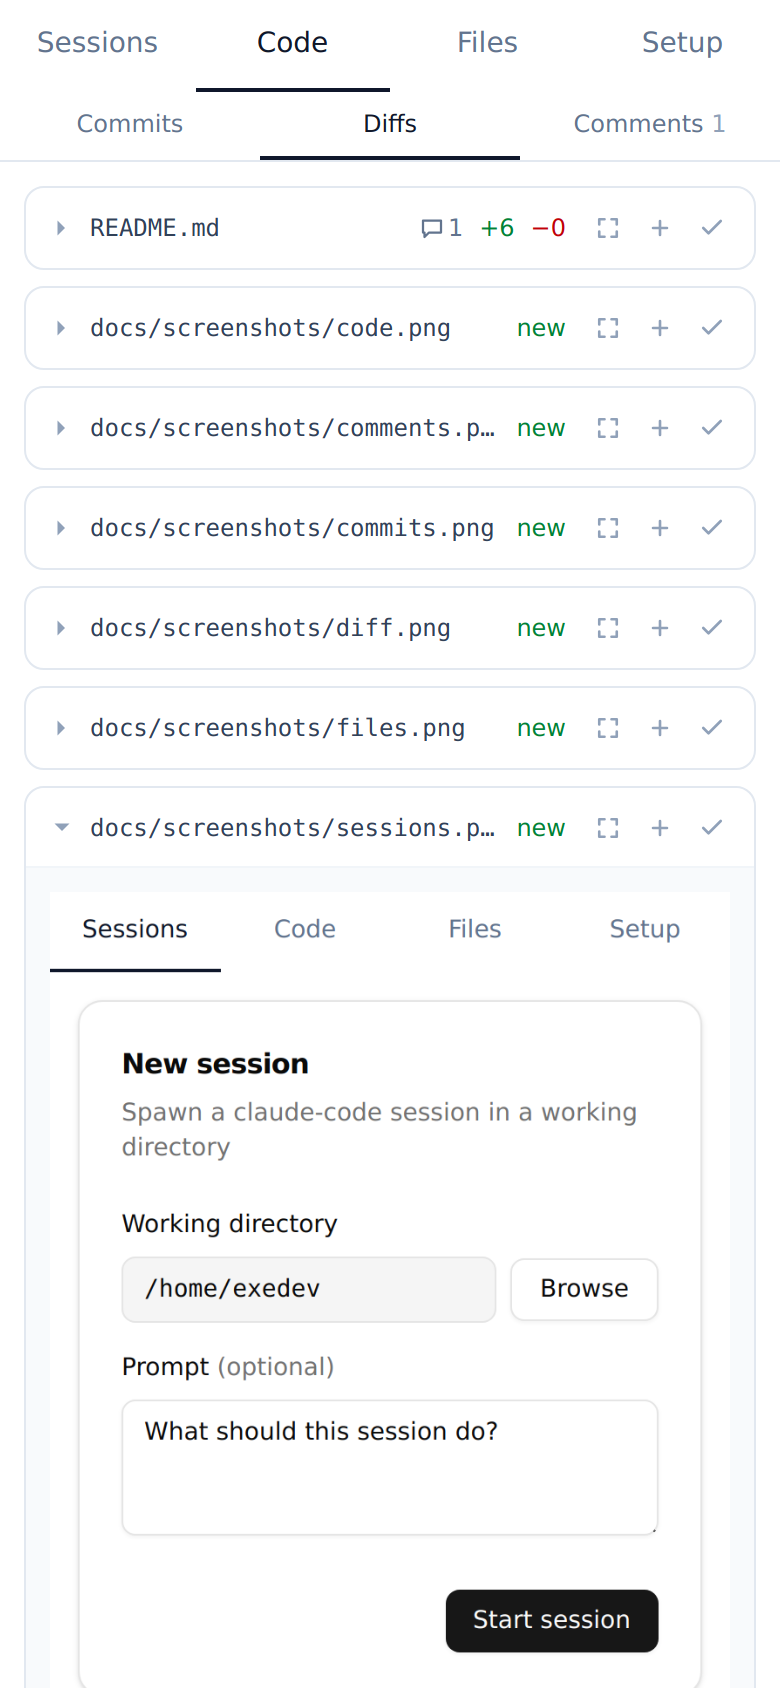
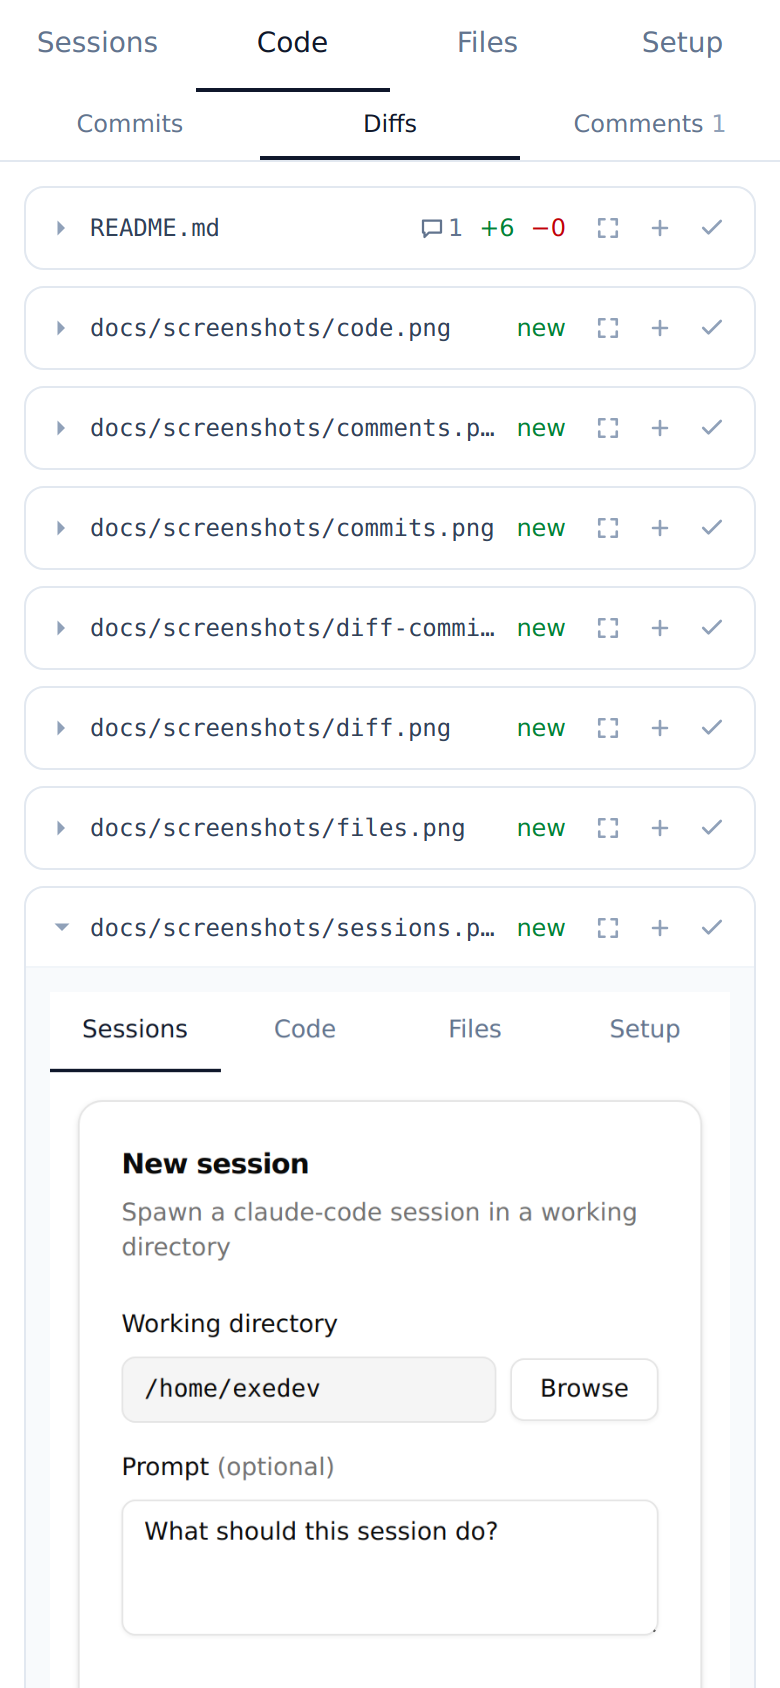
Re-order README screenshots and add the Claude Code mobile shot

diff --git a/README.md b/README.md
@@ -16,8 +16,10 @@ Web UI on `:8888` that walks through installing `claude`, removing interactive d
 claude-control --port 8888
 ```
 
-| Sessions | Setup | Code | Files |
-| --- | --- | --- | --- |
-| ![Sessions](docs/screenshots/sessions.png) | ![Setup](docs/screenshots/setup.png) | ![Code](docs/screenshots/code.png) | ![Files](docs/screenshots/files.png) |
-| **Commits** | **Diffs** | **Comments** | |
-| ![Commits](docs/screenshots/commits.png) | ![Diffs](docs/screenshots/diff.png) | ![Comments](docs/screenshots/comments.png) | |
+Drive the whole thing from your phone over [Claude Code on iOS](docs/screenshots/claude-code-mobile.jpeg).
+
+| Setup | Sessions | Diffs |
+| --- | --- | --- |
+| ![Setup](docs/screenshots/setup.png) | ![Sessions](docs/screenshots/sessions.png) | ![Diffs](docs/screenshots/diff.png) |
+| **Comments** | **Files** | **Claude Code** |
+| ![Comments](docs/screenshots/comments.png) | ![Files](docs/screenshots/files.png) | ![Claude Code mobile](docs/screenshots/claude-code-mobile.jpeg) |
